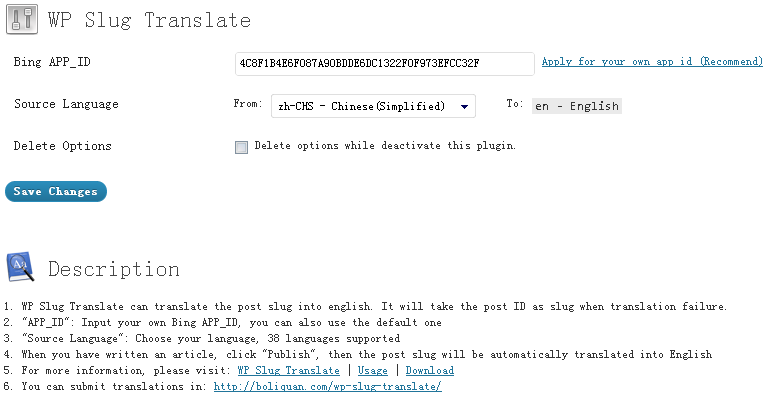
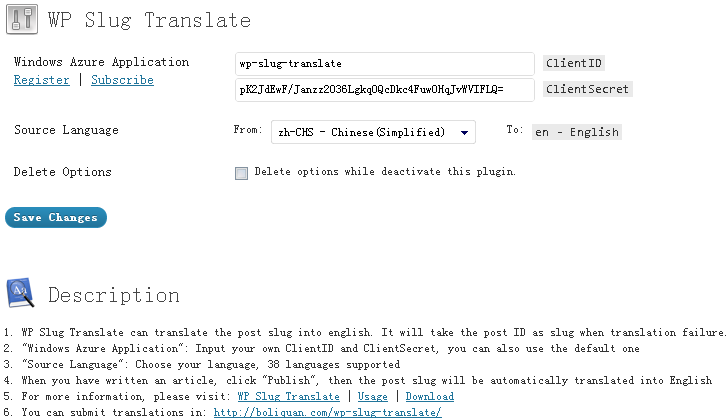
version 1.8.0

diff --git a/wp-slug-translate.php b/wp-slug-translate.php
@@ -3,15 +3,15 @@
 Plugin Name: WP Slug Translate
 Plugin URI: http://boliquan.com/wp-slug-translate/
 Description: WP Slug Translate can translate the post slug into English. It will take the post ID as slug when translation failure.
-Version: 1.7.3
+Version: 1.8.0
 Author: BoLiQuan
 Author URI: http://boliquan.com/
 Text Domain: WP-Slug-Translate
 Domain Path: /lang
 */
 
-//http://www.bing.com/developers/appids.aspx
-define("APP_ID",get_option('wp_slug_translate_appid'));
+define("CLIENTID",get_option('wp_slug_translate_clientid'));
+define("CLIENTSECRET",get_option('wp_slug_translate_clientsecret'));
 define("SOURCE",get_option('wp_slug_translate_language'));
 define("TARGET","en");
 
@@ -24,27 +24,94 @@ function load_wp_slug_translate_lang(){
 }
 add_filter('init','load_wp_slug_translate_lang');
 
-function wst_get_html($url){
-	$ch = curl_init();
-	$options = array(
-		CURLOPT_URL => $url,
-		CURLOPT_RETURNTRANSFER => 1,
-		CURLOPT_USERAGENT => 'Mozilla/5.0 (Windows NT 5.1; rv:6.0.1) Gecko/20100101 Firefox/6.0.1',
-		CURLOPT_HEADER => 0
-		);
-	curl_setopt_array($ch,$options);
-	$data = curl_exec($ch);
-	curl_close($ch);
-	return $data;
+abstract class Translate 
+{
+    function curlRequest($url, $header = array(), $postData = ''){
+        $ch = curl_init();
+        curl_setopt($ch, CURLOPT_URL, $url);
+        if (!empty($header)) {
+            curl_setopt($ch, CURLOPT_HTTPHEADER, $header);
+        }
+        curl_setopt($ch, CURLOPT_RETURNTRANSFER, TRUE);
+        curl_setopt($ch, CURLOPT_SSL_VERIFYPEER, FALSE);
+        if (!empty($postData)) {
+            curl_setopt($ch, CURLOPT_POST, TRUE);
+            curl_setopt($ch, CURLOPT_POSTFIELDS, is_array($postData) ? http_build_query($postData) : $postData);
+        }
+        $curlResponse = curl_exec($ch);
+        $curlErrno = curl_errno($ch);
+        if ($curlErrno) {
+            $curlError = curl_error($ch);
+            throw new Exception($curlError);
+        }
+        curl_close($ch);
+        return $curlResponse;
+    }
+    abstract function translate($text);
 }
 
-function wst_get_translate($char){
-	$charurl=urlencode($char);
-	$data = wst_get_html("http://api.search.live.com/xml.aspx?AppId=".APP_ID."&Sources=Translation&Translation.SourceLanguage=".SOURCE."&Translation.TargetLanguage=".TARGET."&Query=".$charurl);
-	preg_match('/<tra:TranslatedTerm>(.*?)<\/tra:TranslatedTerm>/',$data,$translate);
-	$txt = trim($translate[1]);
-	return $txt;
+class BingTranslator extends Translate
+{
+    private $_clientID = CLIENTID;
+    private $_clientSecret = CLIENTSECRET;
+    private $_fromLanguage = SOURCE;
+    private $_toLanguage = TARGET;
+
+    private $_authUrl = "https://datamarket.accesscontrol.windows.net/v2/OAuth2-13/";
+    private $_scopeUrl = "http://api.microsofttranslator.com";
+    private $_grantType = "client_credentials";
+    private $_via = 0;
+
+    function __construct($via = 0){
+        $this->_via = empty($via) ? 0 : $via;
+    }
+    public function setLocal($loc){
+        $this->_fromLanguage = $loc;
+    }
+    public function setToLanguange($to){
+        $this->_toLanguage = $to;
+    }
+    public function translate($inputStr){
+		return $this->_viaApi($inputStr);
+    }
+
+    private function _getTokens(){
+        try{
+            $postData = array(
+                'grant_type' => $this->_grantType,
+                'scope' => $this->_scopeUrl,
+                'client_id' => $this->_clientID,
+                'client_secret' => $this->_clientSecret
+            );
+            $header = array('User-Agent: Mozilla/5.0 (Windows NT 5.1; rv:6.0.1) Gecko/20100101 Firefox/6.0.1');
+            $response = $this->curlRequest($this->_authUrl, $header, $postData);
+            $jsonObj = json_decode($response);
+            return $jsonObj->access_token;
+        }
+		catch(Exception $e){
+            echo "Exception-" . $e->getMessage();
+        }
+    }
+
+    private function _viaApi($inputStr){
+        $params = "appId=&text=" . urlencode($inputStr) . "&to=" . $this->_toLanguage . "&from=" . $this->_fromLanguage;
+        $translateUrl = "http://api.microsofttranslator.com/v2/Http.svc/Translate?$params";
+        $accessToken = $this->_getTokens();
+        $authHeader = "Authorization: Bearer " . $accessToken;
+        $header = array($authHeader, "Content-Type: text/xml");
+        $curlResponse = $this->curlRequest($translateUrl, $header);
+		
+        $xmlObj = simplexml_load_string($curlResponse);
+        $translatedStr = '';
+        foreach ((array)$xmlObj[0] as $val) {
+            $translatedStr = $val;
+        }
+
+        return $translatedStr;
+    }
+
 }
+
 function wp_slug_translate($postID){
 	global $wpdb;
 	$tableposts = $wpdb->posts ;
@@ -57,8 +124,9 @@ function wp_slug_translate($postID){
 			if( !substr_count($post_name,'%') )
 				return true;
 		}
-
-		$wst_title = sanitize_title( wst_get_translate($post_title) );
+		
+		$bing= new BingTranslator();
+		$wst_title = sanitize_title( $bing->translate($post_title) );
 		if( strlen($wst_title) < 2 ) {
 			$wst_title = $postID;
 		}
@@ -72,16 +140,18 @@ add_action('edit_post', 'wp_slug_translate');
 if(is_admin()){require_once('wp_slug_translate_admin.php');}
 
 function wp_slug_translate_activate(){
+	add_option('wp_slug_translate_clientid','wp-slug-translate');
+	add_option('wp_slug_translate_clientsecret','pK2JdEwF/Janzz2O36Lgkq0QcDkc4Fuw0HqJvWVIFLQ=');
 	add_option('wp_slug_translate_language','zh-CHS');
-	add_option('wp_slug_translate_appid','4C8F1B4E6F087A90BDDE6DC1322F0F973EFCC32F');
 	add_option('wp_slug_translate_deactivate','');
 }
 register_activation_hook( __FILE__, 'wp_slug_translate_activate' );
 
 if(get_option("wp_slug_translate_deactivate")=='yes'){
 	function wp_slug_translate_deactivate(){
+		delete_option('wp_slug_translate_clientid');
+		delete_option('wp_slug_translate_clientsecret');
 		delete_option('wp_slug_translate_language');
-		delete_option('wp_slug_translate_appid');
 		delete_option('wp_slug_translate_deactivate');
 	}
 	register_deactivation_hook( __FILE__, 'wp_slug_translate_deactivate' );

diff --git a/wp_slug_translate_admin.php b/wp_slug_translate_admin.php
@@ -15,13 +15,18 @@ function wp_slug_translate_page(){
 <table class="form-table">
 	<tr valign="top">
 		<th scope="row">
-			<?php _e('Bing APP_ID','WP-Slug-Translate'); ?>
+			Windows Azure Application<br />
+			<a href="https://datamarket.azure.com/developer/applications/register" target="_blank">Register</a> | <a href="https://datamarket.azure.com/dataset/1899a118-d202-492c-aa16-ba21c33c06cb" target="_blank">Subscribe</a>
 		</th>
 		<td>
 			<label>
-				<input type="text" name="wp_slug_translate_appid" value="<?php echo get_option('wp_slug_translate_appid'); ?>" style="width:300px;height:24px;" />
+				<input type="text" name="wp_slug_translate_clientid" value="<?php echo get_option('wp_slug_translate_clientid'); ?>" style="width:300px;height:24px;" />
+				<code>ClientID</code>
+			</label><br />
+			<label>
+				<input type="text" name="wp_slug_translate_clientsecret" value="<?php echo get_option('wp_slug_translate_clientsecret'); ?>" style="width:300px;height:24px;" />
+				<code>ClientSecret</code>
 			</label>
-			<a href="http://www.bing.com/developers/appids.aspx" target="_blank"><?php _e('Apply for your own app id (Recommend)','WP-Slug-Translate'); ?></a>
 		</td>
 	</tr>
 	<tr valign="top">
@@ -89,7 +94,7 @@ function wp_slug_translate_page(){
 </table>
 
 <input type="hidden" name="action" value="update" />
-<input type="hidden" name="page_options" value="wp_slug_translate_appid,wp_slug_translate_language,wp_slug_translate_deactivate" />
+<input type="hidden" name="page_options" value="wp_slug_translate_clientid,wp_slug_translate_clientsecret,wp_slug_translate_language,wp_slug_translate_deactivate" />
 
 <p class="submit">
 <input type="submit" class="button-primary" name="Submit" value="<?php _e('Save Changes'); ?>" />
@@ -107,7 +112,7 @@ function wp_slug_translate_page(){
 <h2>Description</h2>
 <p>
  1. WP Slug Translate can translate the post slug into english. It will take the post ID as slug when translation failure.<br />
- 2. "APP_ID": Input your own Bing APP_ID, you can also use the default one<br />
+ 2. "Windows Azure Application": Input your own ClientID and ClientSecret, you can also use the default one<br />
  3. "Source Language": Choose your language, 38 languages supported<br />
  4. When you have written an article, click "Publish", then the post slug will be automatically translated into English<br />
  5. For more information, please visit: <a href="http://boliquan.com/wp-slug-translate/" target="_blank">WP Slug Translate</a> | <a href="http://wordpress.org/extend/plugins/wp-slug-translate/" target="_blank">Usage</a> | <a href="http://wordpress.org/extend/plugins/wp-slug-translate/" target="_blank">Download</a><br />
